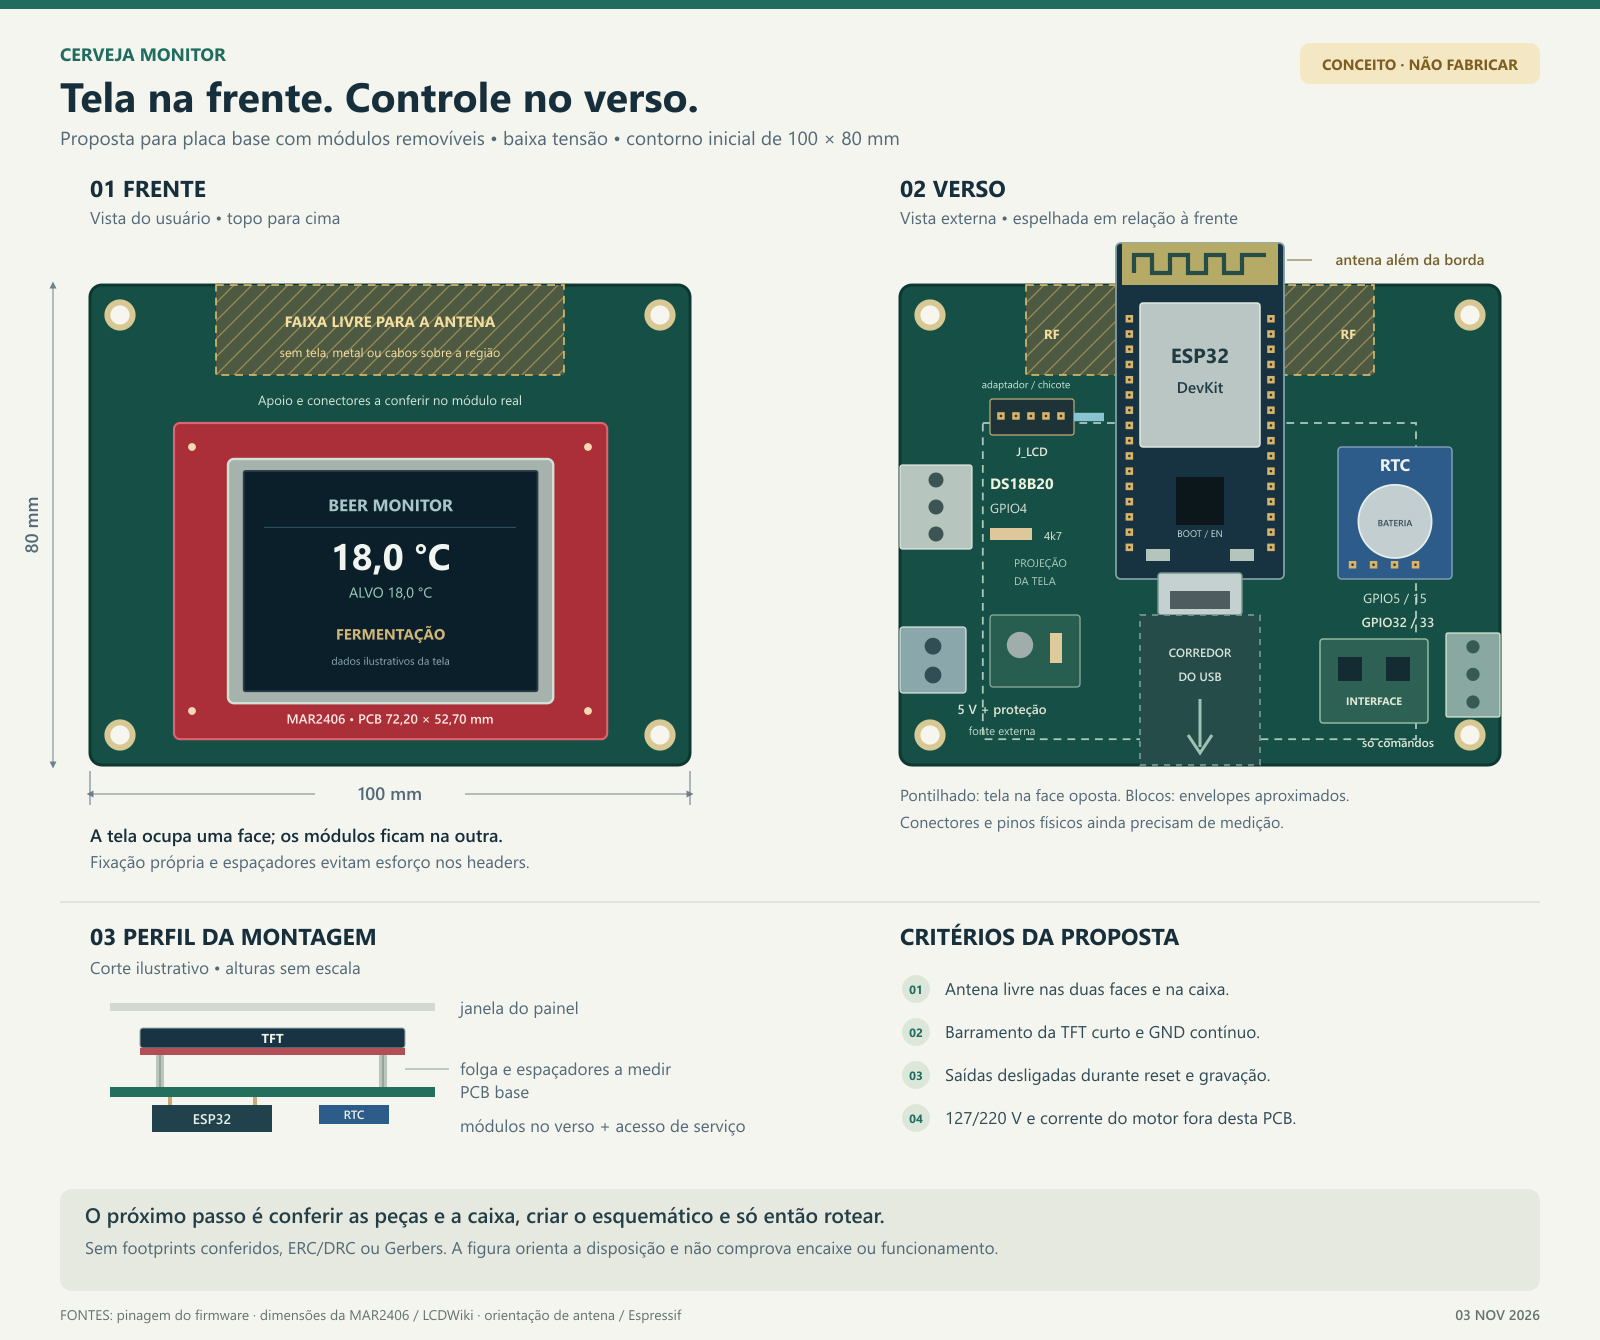
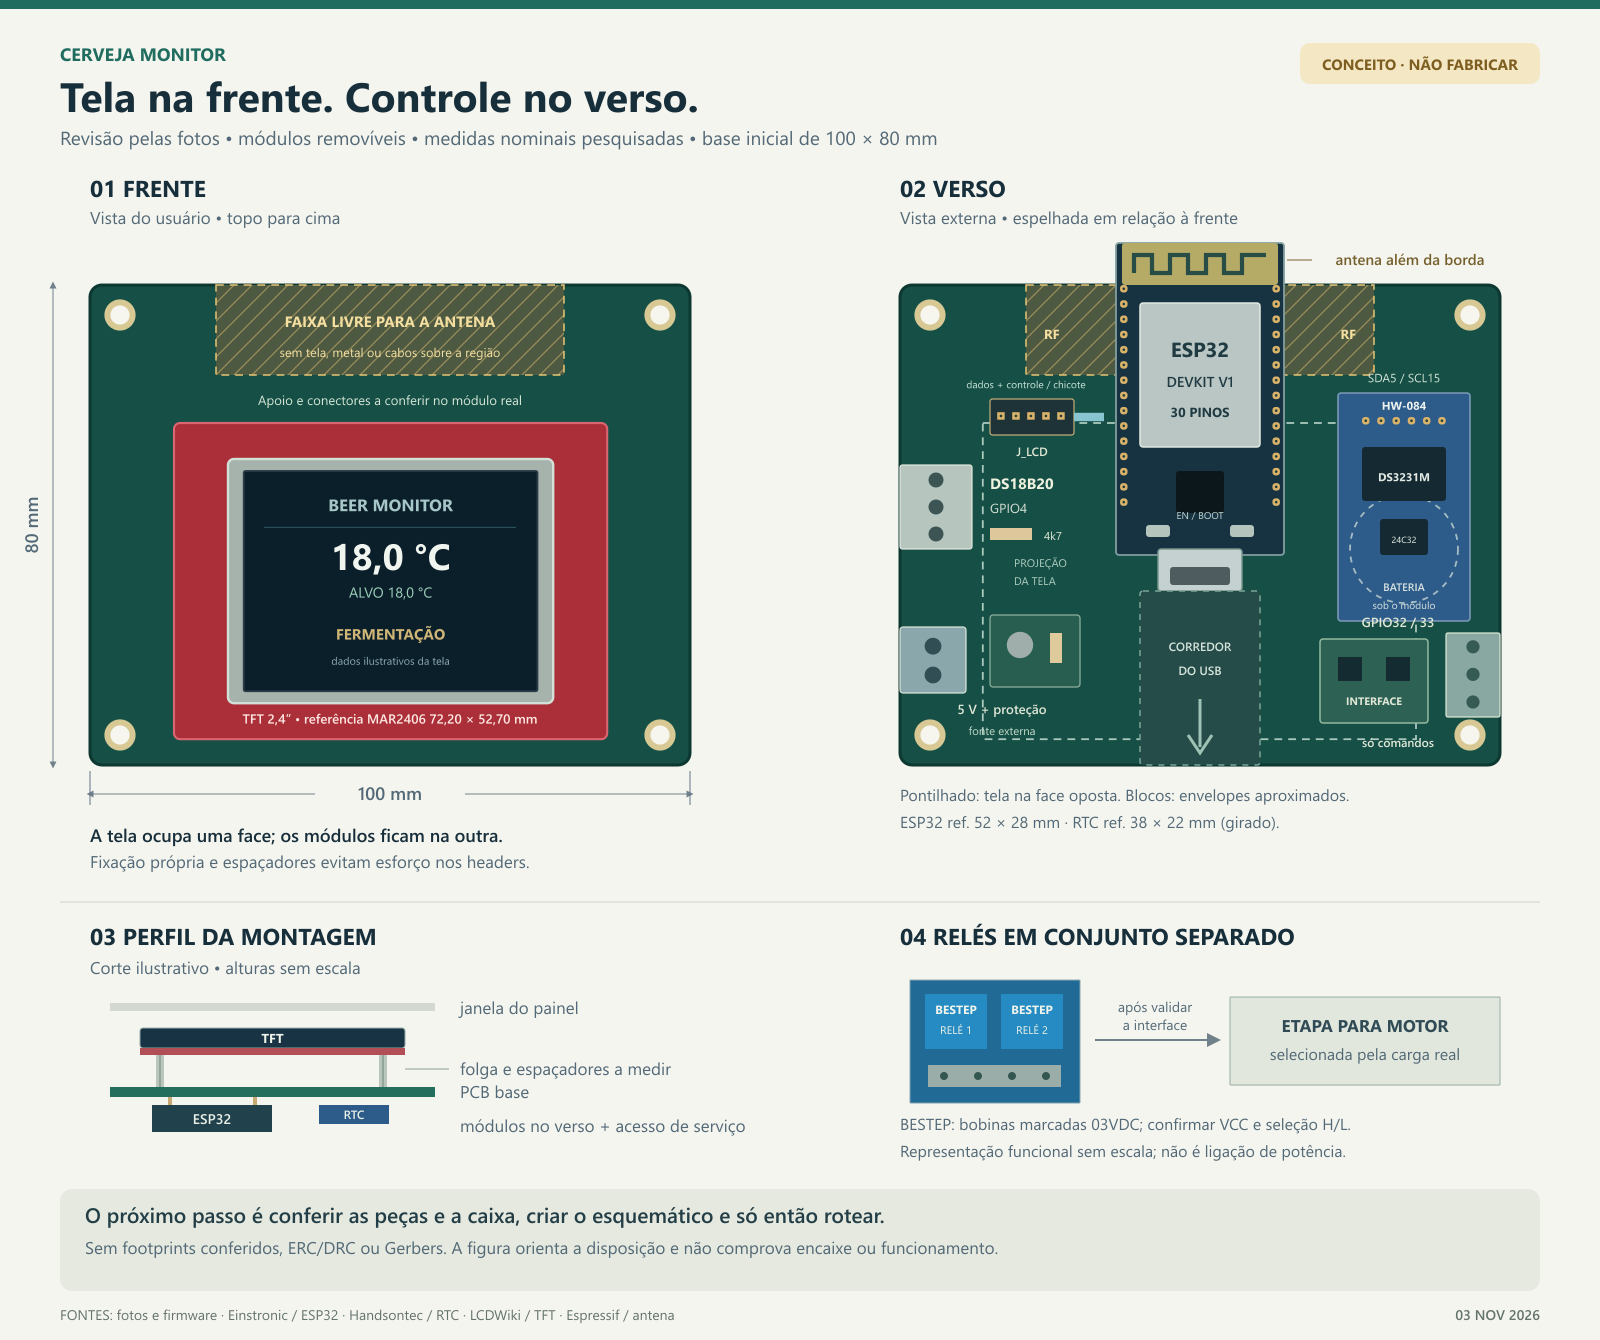
docs: ajusta PCB aos modulos fotografados e pesquisa dimensoes

diff --git a/hardware/pcb/DISPOSICAO.md b/hardware/pcb/DISPOSICAO.md
@@ -11,11 +11,45 @@ MAR2406 voltada ao usuário e ESP32, RTC e interfaces no verso. Isso mantém os
 módulos substituíveis e aproveita o firmware existente. A tela deve ter apoio
 mecânico próprio; os conectores não devem sustentar sozinhos a montagem.
 
-O contorno de **100 × 80 mm** é uma hipótese inicial, baseada no contorno do
-arquivo Eagle local existente, ainda sem circuito. O fabricante informa
-**72,20 × 52,70 mm** para a PCB da MAR2406. O espaço restante sugere viabilidade,
-mas não comprova o encaixe: faltam medidas dos módulos, conectores, caixa e
-alturas. Os corpos desenhados são envelopes aproximados, não footprints.
+O contorno de **100 × 80 mm** é uma hipótese inicial de placa base. As medidas
+de referência abaixo permitem estudar o espaço disponível, mas não comprovam
+o encaixe da unidade real: faltam conferir offsets, conectores, caixa e alturas.
+Os corpos desenhados são envelopes de planejamento, não footprints liberados.
+
+## Módulos fotografados e medidas pesquisadas
+
+As fotos fornecidas em 03/11/2026 permitem identificar os itens abaixo. Elas
+não foram usadas para deduzir medidas exatas por perspectiva.
+
+| Item | Identificação visível | Medida adotada no estudo | Evidência e limite |
+|---|---|---|---|
+| ESP32 | ESP32 DEVKIT V1; duas fileiras de 15 pinos; micro-USB; EN/BOOT | 52 × 28 mm; 2 × 15 contatos de passo 2,54 mm; fileiras a 25,4 mm como referência | A Einstronic informa 52 × 28 × 14 mm para sua versão DOIT. A biblioteca Eagle local usa 25,4 mm entre fileiras e passo 2,54 mm. Ainda não há conferência dimensional da unidade fotografada. |
+| RTC | HW-084; CI marcado DS3231M; EEPROM marcada 24C32N; bateria sob a placa | 38 × 22 mm; reservar altura preliminar de 14 mm | A Handsontec documenta 38 × 22 × 14 mm para módulo DS3231 com EEPROM. É referência de uma placa da mesma família, não desenho mecânico certificado do HW-084 fotografado. |
+| TFT | Shield vermelho “2.4 TFT LCD SHIELD”, com headers em lados opostos e slot SD | 72,20 × 52,70 mm, provisoriamente | Dimensão da MAR2406 documentada pela LCDWiki, usada pelo firmware. A inscrição e a foto do verso, sozinhas, não confirmam o controlador nem a revisão mecânica exata. |
+| Relés | Dois BESTEP JQC3F-03VDC-C; marcação 10 A; seleção High/Low | Reservar aproximadamente 51 × 40 × 20 mm no conjunto externo | Ofertas de módulos BESTEP semelhantes variam entre 49 × 37,5 × 17 e 50,5 × 38,5 × 18,5 mm; a reserva é arredondada. Não usar essas medidas para furar a caixa sem conferir. |
+| DS18B20 | Previsto pelo firmware; não identificado nessas fotos | Conector externo de três vias | A pinagem depende do sensor/cabo real, não da cor dos fios. |
+
+Referências de medidas:
+[ESP32 — Einstronic](https://einstronic.com/product/esp32-devkit-v1/),
+[RTC — Handsontec, página 4 do PDF](https://www.handsontec.com/dataspecs/module/Module%20Collection.pdf#page=4),
+[TFT — LCDWiki](https://www.lcdwiki.com/2.4inch_Arduino_Display),
+[relés — RoboticsDNA](https://roboticsdna.in/product/bestep-3v-2-channels-relay-low-level-module-trigger-with-optocoupler/)
+e [relés — Elecbee](https://www.elecbee.com/en/product-detail/3pcs-2-channel-3v-relay-module-low-level-trigger-optocoupler-isolation-for-auduino_28918).
+
+O RTC deve ser representado como uma placa alongada, girada 90° na lateral do
+verso. A bateria fica voltada para a PCB base na orientação mostrada: prever
+espaçadores e acesso para removê-la. A EEPROM e os pinos 32K/SQW não precisam
+de conexão para o uso atual do relógio. No header de seis vias, a foto mostra
+`32K / SQW / SCL / SDA / VCC / GND`; o header de quatro vias na outra ponta
+expõe `SCL / SDA / VCC / GND`. Confira a orientação ao desenhar o footprint.
+
+O nome DS3232M nos comentários/logs do firmware diverge da marcação **DS3231M**
+fotografada. O código acessa o endereço I²C `0x68`, calendário `0x00…0x06`,
+controle `0x0E` e status `0x0F`. Esses endereços e os bits usados também estão
+documentados no [datasheet do DS3231M](https://www.analog.com/media/en/technical-documentation/data-sheets/DS3231M.pdf).
+Isso sugere compatibilidade para as operações atuais; não equivale a teste
+físico nem afirma intercambiabilidade de todos os recursos. O firmware não
+foi alterado nesta revisão da disposição.
 
 Frente e verso são vistos de fora. O verso foi espelhado horizontalmente em
 relação à frente: a borda esquerda da vista traseira corresponde à borda direita
@@ -27,9 +61,9 @@ projeção da tela na face oposta; não são trilhas elétricas.
 | Conjunto | Posição sugerida | Motivo |
 |---|---|---|
 | TFT MAR2406 | Frente, abaixo da faixa reservada ao rádio | Permite janela no painel e evita sobrepor a tela à antena |
-| ESP32 DevKit | Verso, com antena junto à borda superior e preferencialmente além do contorno | Reduz obstrução pelo display e facilita substituir o módulo |
+| ESP32 DevKit V1, 30 pinos | Verso, com antena junto à borda superior e preferencialmente além do contorno | Reduz obstrução pelo display e facilita substituir o módulo |
 | Conexão da TFT | Verso, perto do ESP32 e alinhada aos conectores reais da tela | Mantém curto o barramento paralelo; pode exigir adaptador ou chicote curto |
-| RTC e bateria | Lateral do verso, longe da antena e da interface dos relés | Permite manutenção da bateria e conexão I²C curta |
+| RTC HW-084 / DS3231M | Lateral do verso, girado 90°, com folga para a bateria sob o módulo | Aproveita a placa alongada; requer retirada do módulo para manutenção da bateria |
 | DS18B20 | Conector na borda, com pull-up de 4,7 kΩ próximo | Facilita levar o cabo para a câmara e identificar 3V3, GND e DQ |
 | Alimentação | Borda inferior/lateral, com proteção e desacoplamento próximos | Evita atravessar a placa com o cabo de entrada |
 | Interface dos comandos | Próxima ao conector para a etapa externa | Mantém o caminho das saídas curto e afasta a comutação do sensor |
@@ -40,6 +74,13 @@ O desenho não representa posições físicas de pinos do DevKit ou do shield.
 Use os nomes dos sinais do firmware e confira a ordem de cada conector antes
 de criar o esquemático. Não suponha que os headers da MAR2406 formem uma única
 barra com passo uniforme; confirme os offsets do shield Arduino na placa real.
+Para este shield, a primeira montagem pode usar adaptador/chicote curto para
+os grupos de dados e de controle/alimentação. O bloco J_LCD no desenho
+representa essa interface lógica; não é uma cópia de seu header físico.
+Os headers em ângulo vistos no RTC também podem exigir chicote ou adaptação
+para montar o módulo paralelo à base; o desenho não comprova encaixe direto.
+Para sustentar a TFT, use apoio/moldura compatível com a placa real: não há
+furos de montagem da tela confirmados nas fotos.
 
 ## Antena e tela em faces opostas
 
@@ -71,6 +112,10 @@ Fonte: [Espressif — posicionamento de módulos e antena](https://docs.espressi
 - Não ligue bobinas diretamente aos GPIOs. Se houver bobina na interface,
   dimensione driver e supressão; se for módulo pronto, confirme alimentação,
   corrente e compatibilidade de entrada com 3,3 V.
+- Os relés fotografados estão marcados `03VDC`, correspondendo à bobina de
+  3 V, não a 5 V. Essa inscrição não determina sozinha o esquema de alimentação
+  do módulo completo. Confira VCC, corrente e seleção High/Low antes de
+  conectá-lo; a foto não demonstra a posição funcional dos seletores.
 - Preserve GPIO32/33 e a polaridade ativa em LOW do firmware. Projete a
   interface para permanecer desligada durante reset, programação e ausência
   do ESP32. A validação inclui alimentação do módulo de comando com o ESP32

diff --git a/README.md b/README.md
@@ -32,9 +32,12 @@ iSpindel ── Wi-Fi/HTTP ──> ESP32 + receitas      interface / potência e
 
 ## Hardware e pinagem atual
 
-Base: ESP32 clássico, DS18B20 alimentado em 3,3 V, display MAR2406 paralelo
-de 8 bits, RTC compatível com o driver DS3232M e interface para dois comandos
-de relé. Confira o modelo e a pinagem dos módulos físicos antes de montar.
+Base: ESP32 clássico, DS18B20 alimentado em 3,3 V, display paralelo de 8 bits
+configurado como MAR2406/ILI9341 e interface para dois comandos de relé.
+As fotos do protótipo mostram um **ESP32 DEVKIT V1 com 30 pinos** e um
+**RTC HW-084 com CI marcado DS3231M e EEPROM 24C32N**. A documentação anterior
+e as mensagens do firmware citam DS3232M; não confunda esse nome com a marcação
+da peça fotografada. Confira a revisão e a pinagem dos módulos antes de montar.
 
 | Função | ESP32 / conexão |
 |---|---|
